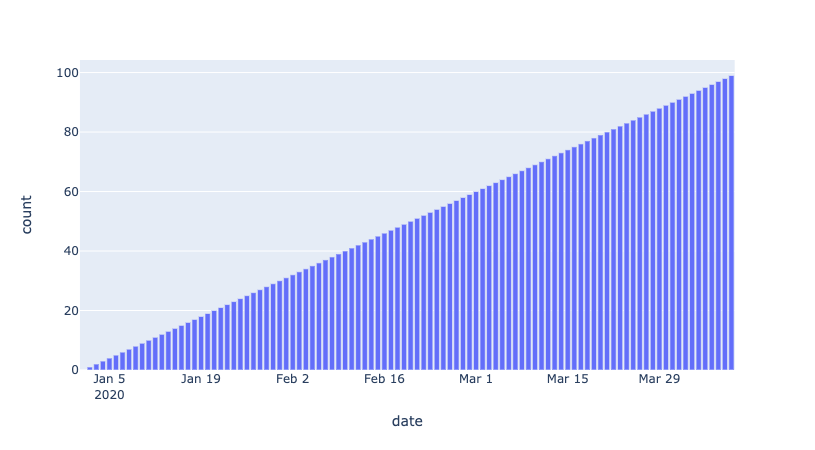
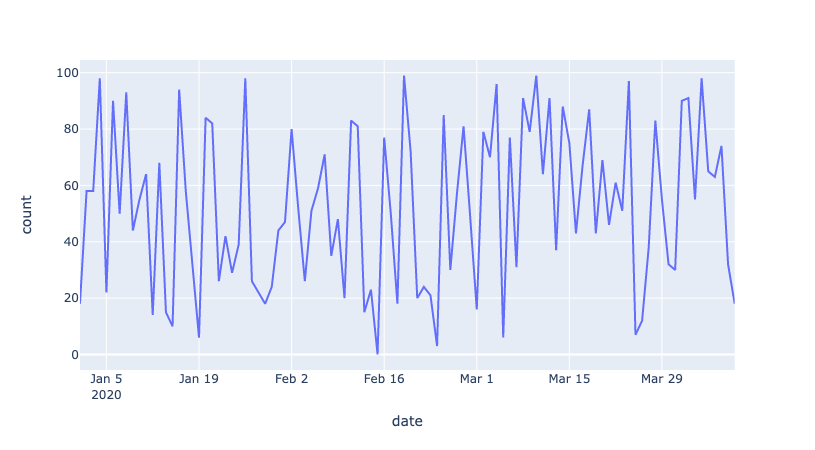
refactor: randomize data in example charts

Changed region(s): [[0.0613, 0.1556, 0.9202, 0.9022], [0.0613, 0.6533, 0.1227, 0.7156]]

diff --git a/plotly-date-axis-format/app.py b/plotly-date-axis-format/app.py
@@ -1,4 +1,5 @@
 from datetime import timedelta
+import random
 
 import dash
 import dash_core_components as dcc
@@ -14,10 +15,14 @@ MAX_DAYS_WITH_DTICK_FORMAT = 99
 
 
 def generate_df(days):
+    random.seed(days)
     min_date = pd.to_datetime("2020-01-01")
     df = pd.DataFrame(
         [
-            {"date": str((min_date + timedelta(days=i)).date()), "count": i}
+            {
+                "date": str((min_date + timedelta(days=i)).date()), 
+                "count": random.randint(0, 100),
+            }
             for i in range(days)
         ]
     )
@@ -27,7 +32,7 @@ def generate_df(days):
 
 
 def generate_bar(df, fix=None):
-    fig = px.bar(df, x="date", y="count")
+    fig = px.line(df, x="date", y="count")
 
     if fix == 0:
         fig.update_xaxes(fixedrange=True)
